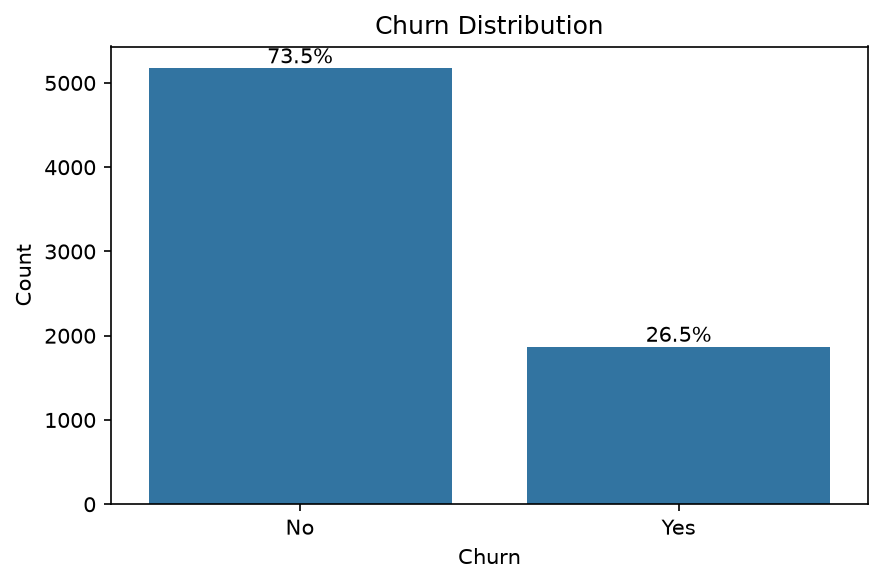
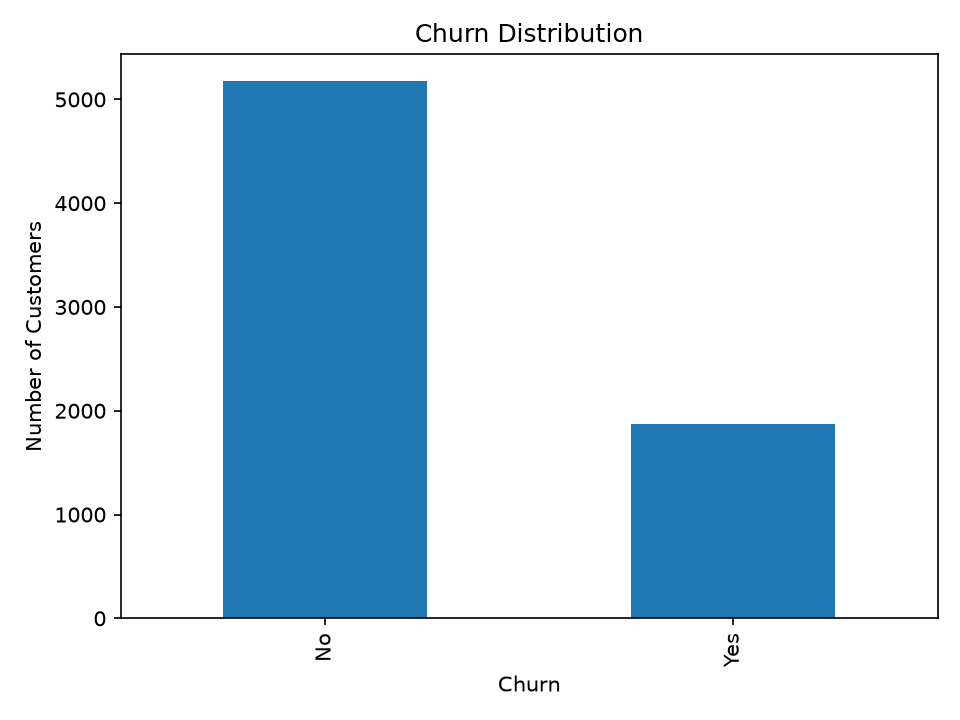
updating project

diff --git a/src/visualization/figures.py b/src/visualization/figures.py
@@ -1,0 +1,32 @@
+import pandas as pd
+import matplotlib.pyplot as plt
+from pathlib import Path
+
+from src.data.ingestion.load_data import load_data
+
+# ریشهی پروژه (src/visualization/figures.py -> سه سطح بالاتر)
+PROJECT_ROOT = Path(__file__).resolve().parents[2]
+FIGURES_DIR = PROJECT_ROOT / "reports" / "figures"
+FIGURES_DIR.mkdir(parents=True, exist_ok=True)
+
+df = load_data("Telco.csv")
+
+# Churn Distribution
+df["Churn"].value_counts().plot(kind="bar")
+plt.title("Churn Distribution")
+plt.xlabel("Churn")
+plt.ylabel("Number of Customers")
+plt.tight_layout()
+plt.savefig(FIGURES_DIR / "churn_distribution.png", dpi=150)
+plt.close()
+
+# Churn by Gender
+pd.crosstab(df["gender"], df["Churn"]).plot(kind="bar")
+plt.title("Churn by Gender")
+plt.xlabel("Gender")
+plt.ylabel("Number of Customers")
+plt.tight_layout()
+plt.savefig(FIGURES_DIR / "churn_by_gender.png", dpi=150)
+plt.close()
+
+print(f"Figures saved to: {FIGURES_DIR}")

diff --git a/src/exploration/eda.py b/src/exploration/eda.py
@@ -1,5 +1,6 @@
 from src.data.ingestion.load_data import load_data
 
+
 df = load_data("Telco.csv")
 print(df.head())
 
@@ -47,8 +48,7 @@ print(df.dtypes)
 
 
 
-print("\n--- gender and Churn mean")
+print("\n--- gender and Churn percentage ---")
 print(df.groupby("gender")["Churn"].value_counts(normalize=True) * 100)
-print("\n--- Contract and Churn mean")
+print("\n--- Contract and Churn percentage ---")
 print(df.groupby("Contract")["Churn"].value_counts(normalize=True) * 100)
-
